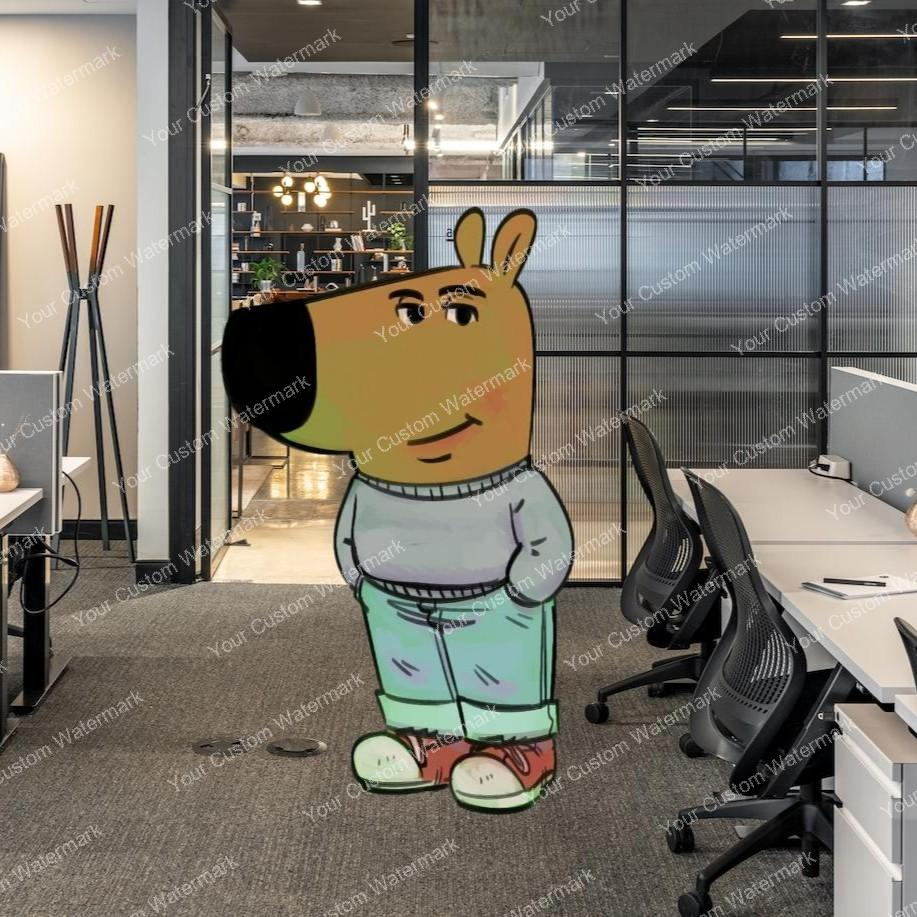
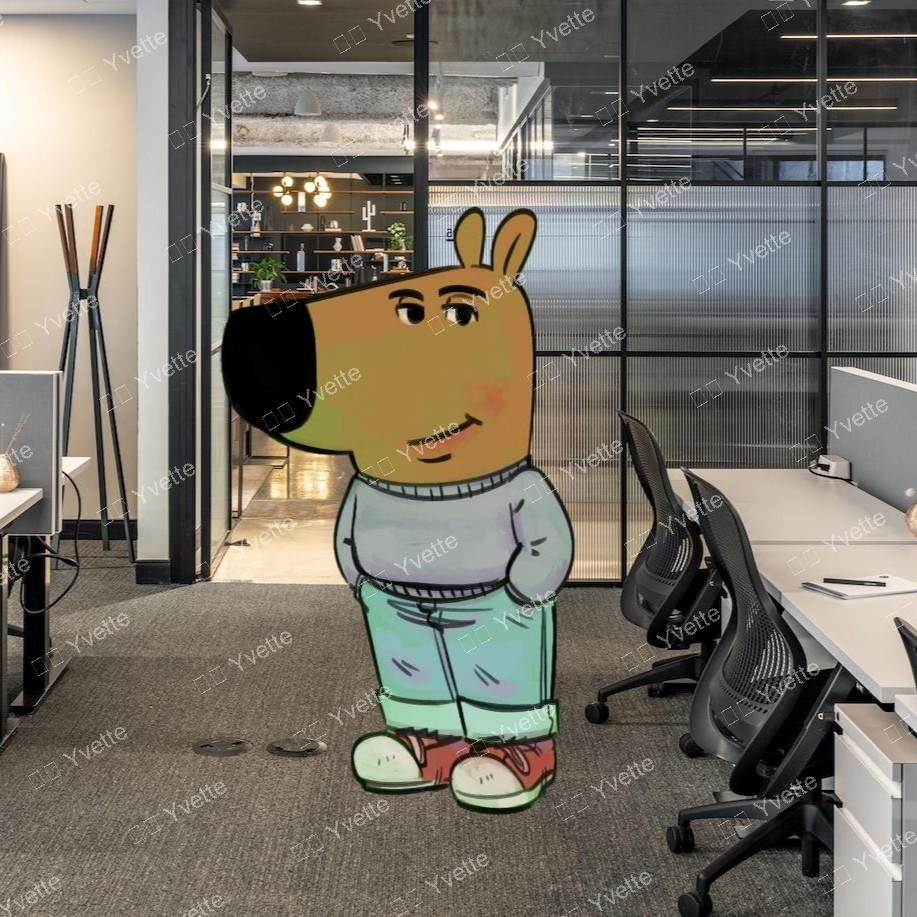
offset

diff --git a/main.py b/main.py
@@ -6,10 +6,10 @@ OUTPUT_DIR = "watermarked"
 
 os.makedirs(OUTPUT_DIR, exist_ok=True)
 
-WATERMARK_TEXT = "Your Custom Watermark"
+WATERMARK_TEXT = "伊薇 Yvette"
 
 try:
-    font = ImageFont.truetype("arial.ttf", 20) 
+    font = ImageFont.truetype("arial.ttf", 24) 
 except:
     font = ImageFont.load_default()
 
@@ -32,7 +32,7 @@ def add_watermark(image_path, output_path, text=WATERMARK_TEXT):
     row_index = 0
     for y in range(0, height * 2, y_step):
         # Shift even rows slightly
-        x_offset = 200 if row_index % 2 else 0
+        x_offset = 250 if row_index % 2 else 0
 
         for x in range(0, width * 2, x_step):
             draw.text((x + x_offset, y), text, font=font, fill=(255, 255, 255, 100))
